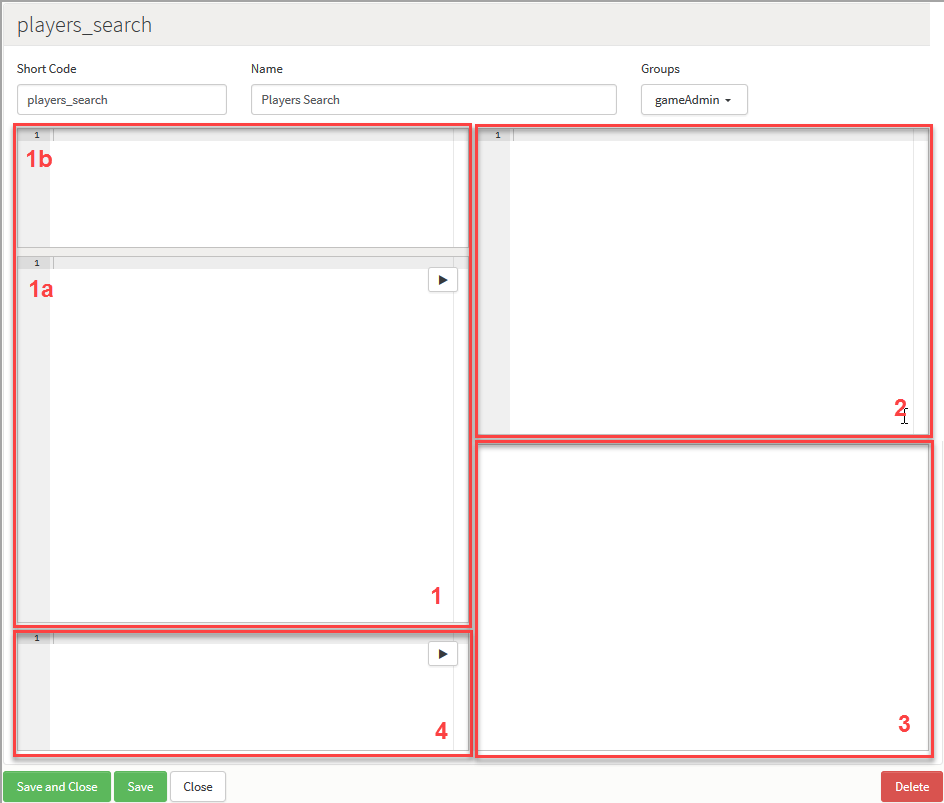
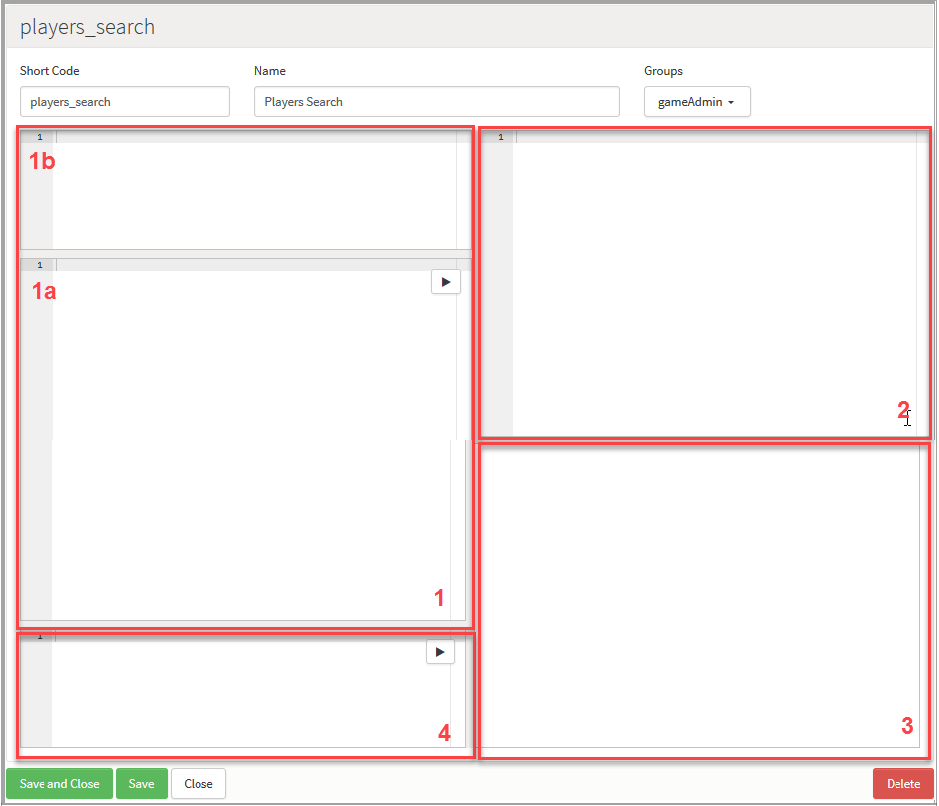
New UI updates

Changed region(s): [[0.0, 0.0, 1.0, 1.0]]

diff --git a/MARKDOWN/Documentation/Manage/Working with Dynamic Forms.md b/MARKDOWN/Documentation/Manage/Working with Dynamic Forms.md
@@ -109,7 +109,7 @@ Enter the details for the new Snippet:
 
 *1.* On the *Snippets* tab, click to edit our new *players_search* Snippet:
 
-![](img/DynamicForms/40.png)
+![](img/DynamicForms/56.png)
 
 The *Snippet Builder* is divided into 4 quadrants:
 
